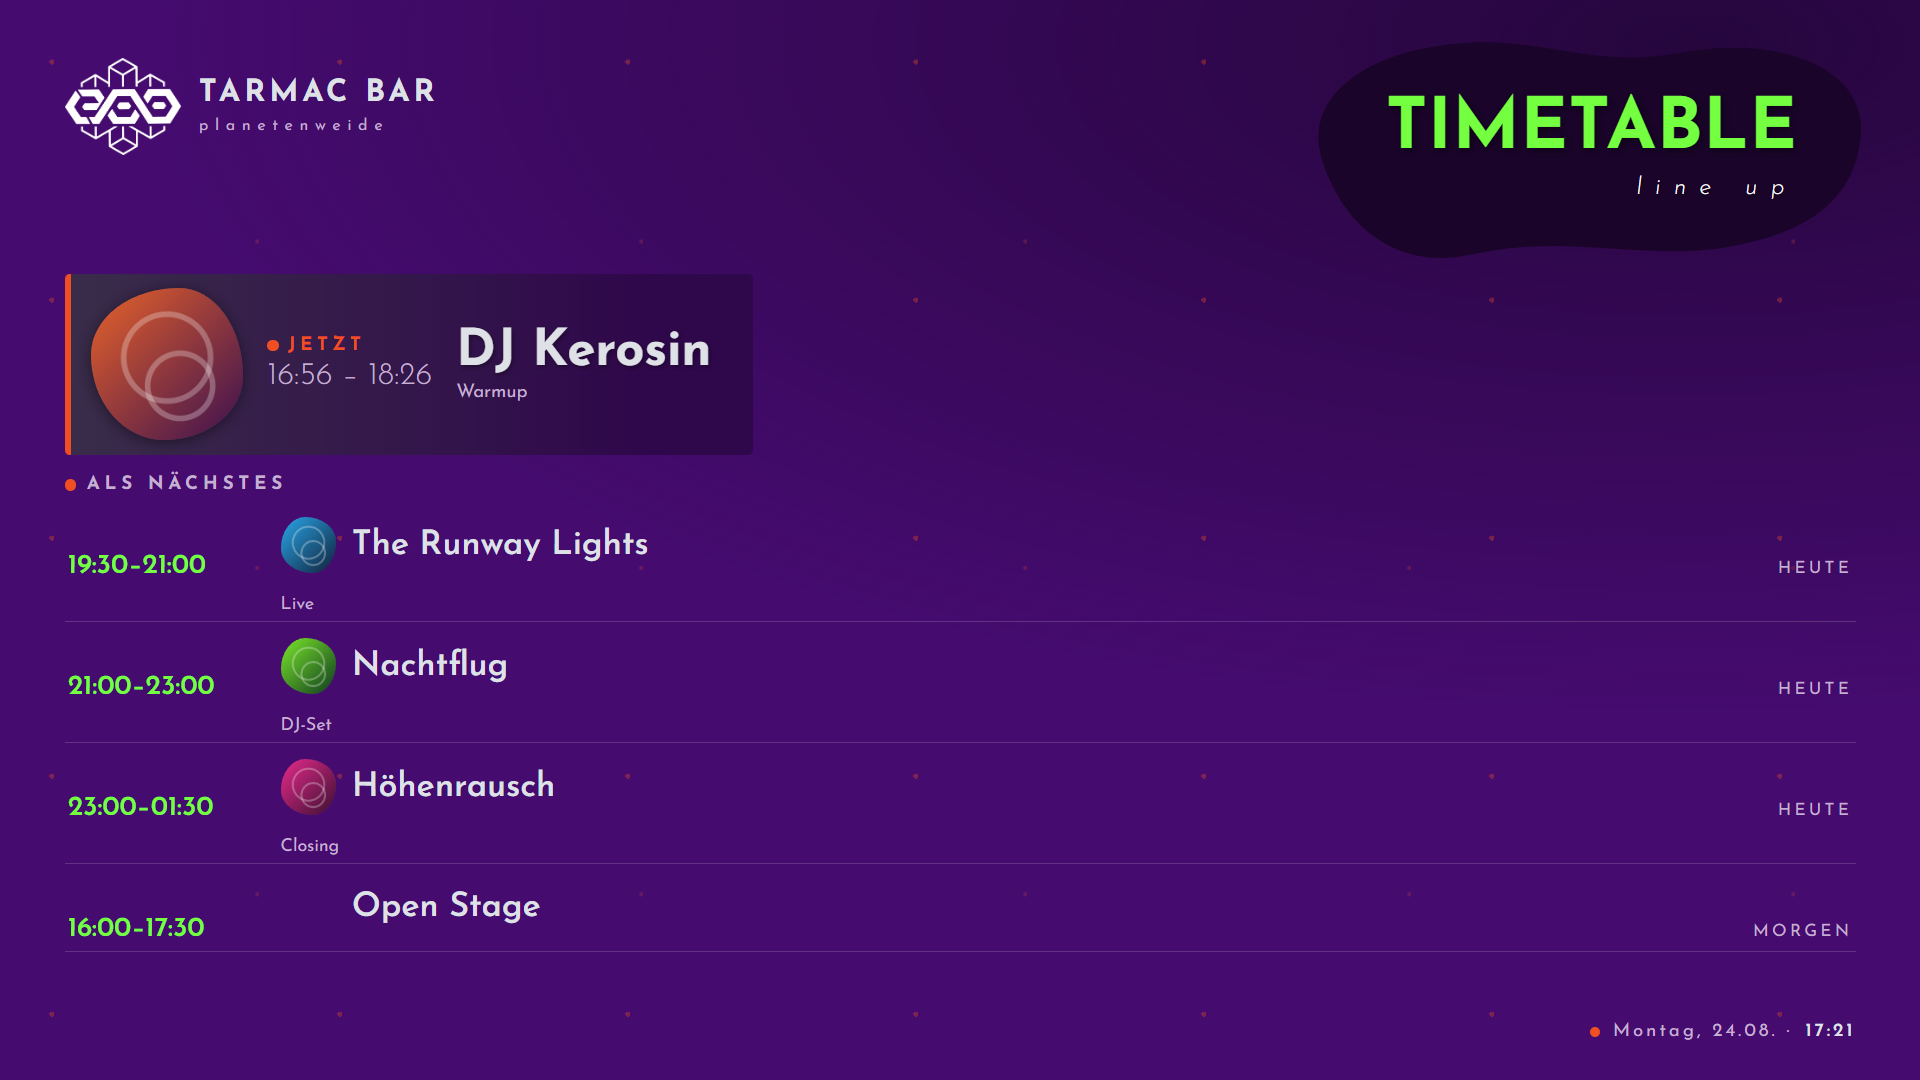
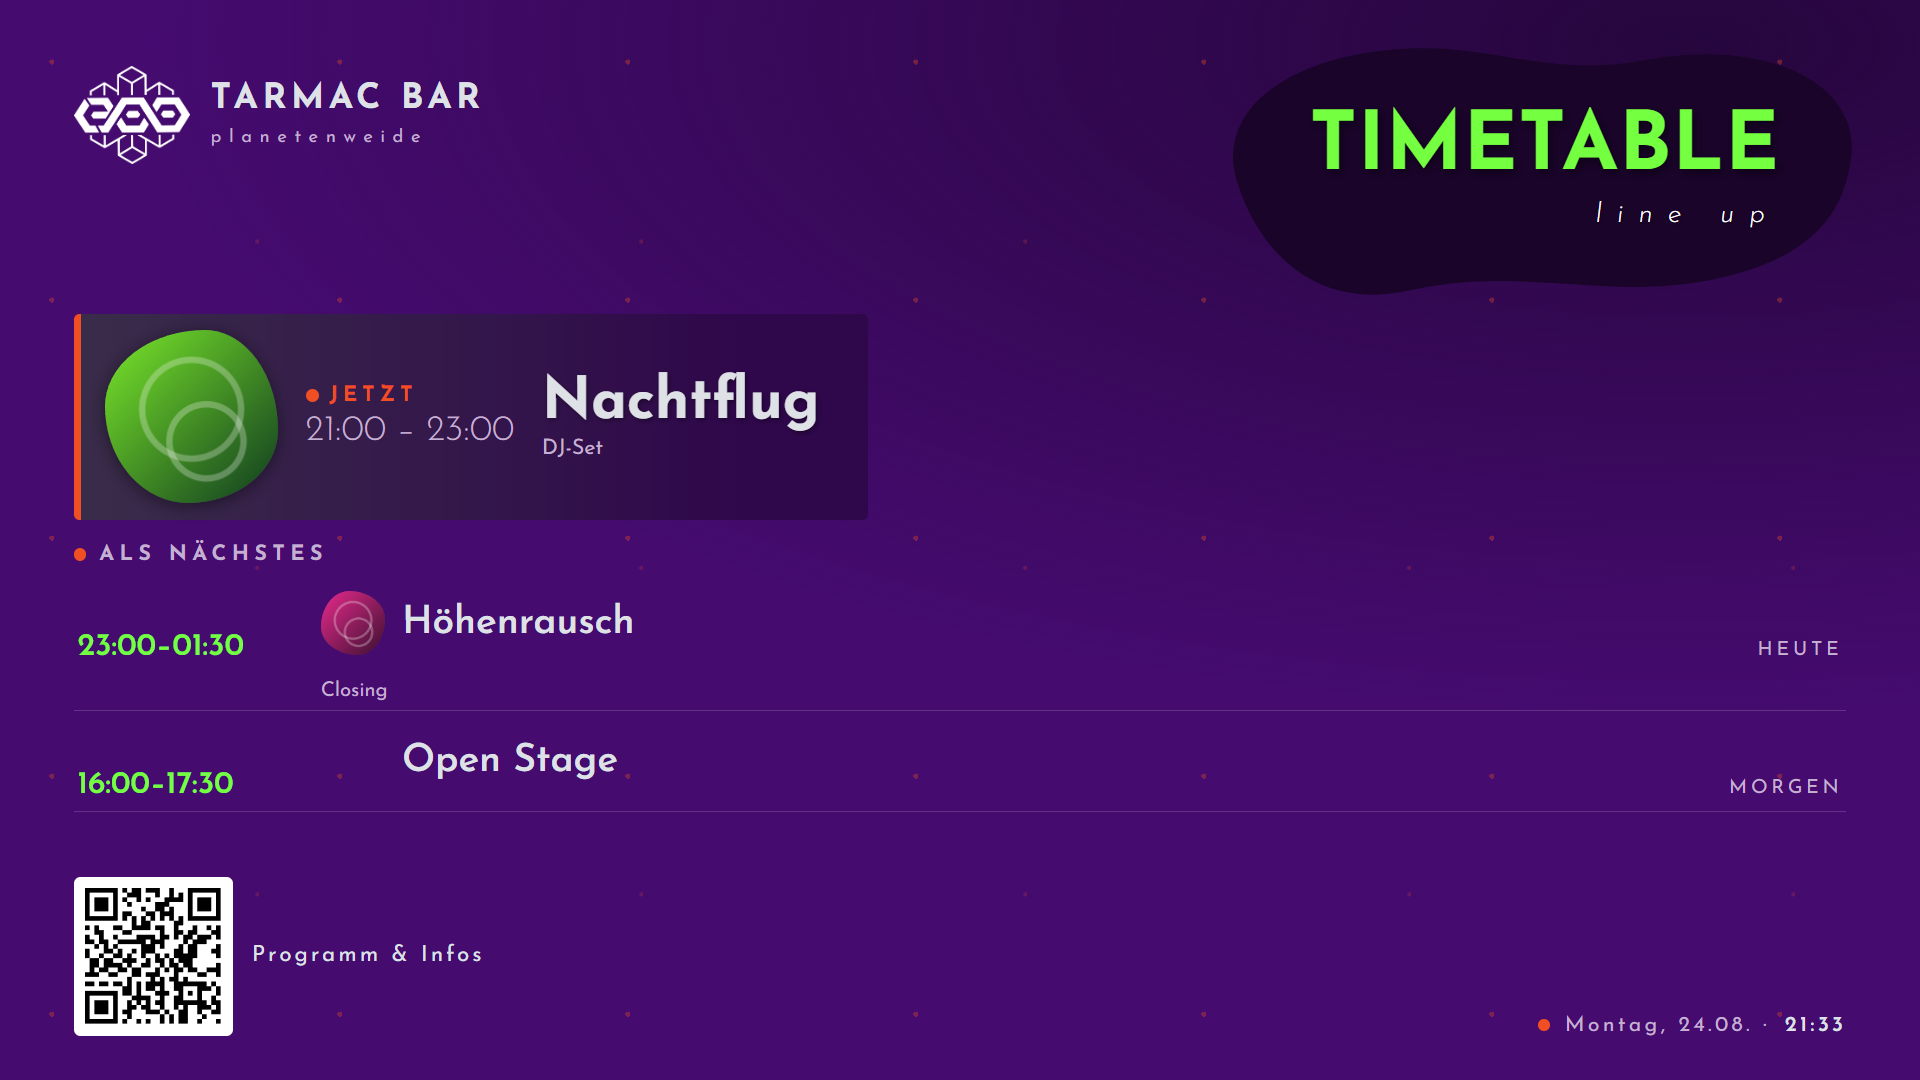
Doku auf den Stand von v1.1.0 gebracht
- Alle Screenshots neu aufgenommen; die Einstellungsbilder waren durch den
  neuen Reiter "Durchsage" veraltet
- Neu: Durchsage auf der Anzeige und im Einstellungsfenster, gedrehte Anzeige
- Kapitel zu Durchsage, QR-Code, Ruhezeit und Drehung ergaenzt
- Feste Versionsnummern durch Platzhalter ersetzt, Pruefsummen-Dateien richtig
  benannt
- Abschnitt "Reproduzierbare Releases"
- Abgeschnittenen Satz im Reiter "Anzeige" repariert, src/qr.js und
  qrcode-generator nachgetragen, Fehlertabelle um vier Zeilen erweitert

diff --git a/README.md b/README.md
@@ -57,17 +57,23 @@ Getränkepreise im Festival-Design.
 
 ## Einrichten an der Bar
 
-Es gibt das Programm für Windows und für Linux. Beide Fassungen sind funktionsgleich.
+Es gibt das Programm für Windows, Linux und macOS. Alle Fassungen sind funktionsgleich.
+Die aktuellen Dateien liegen unter
+[Releases](https://github.com/Tarmac-Festival/bar-display/releases/latest); `VERSION`
+steht unten für die Versionsnummer des Releases, also z. B. `1.1.0`.
 
 | System | Datei | Anmerkung |
 |---|---|---|
-| Windows | `Bar Display Setup 1.0.0.exe` | Installer mit Startmenü- und Desktop-Eintrag |
-| Windows | `BarDisplay-portable-1.0.0.exe` | ohne Installation, einfach in einen Ordner legen |
-| Linux | `BarDisplay-1.0.0-x86_64.AppImage` | ohne Installation, läuft auf jeder Distribution |
-| Linux | `bar-display_1.0.0_amd64.deb` | für Debian, Ubuntu, Mint und Verwandte |
-| Linux | `bar-display-1.0.0.tar.gz` | einfaches Archiv, falls die anderen beiden nicht passen |
-| macOS | `BarDisplay-1.0.0-arm64.dmg` | Apple Silicon (M1 und neuer) |
-| macOS | `BarDisplay-1.0.0-x64.dmg` | Intel-Macs |
+| Windows | `Bar Display Setup VERSION.exe` | Installer mit Startmenü- und Desktop-Eintrag |
+| Windows | `BarDisplay-portable-VERSION.exe` | ohne Installation, einfach in einen Ordner legen |
+| Linux | `BarDisplay-VERSION-x86_64.AppImage` | ohne Installation, läuft auf jeder Distribution |
+| Linux | `bar-display_VERSION_amd64.deb` | für Debian, Ubuntu, Mint und Verwandte |
+| Linux | `bar-display-VERSION.tar.gz` | einfaches Archiv, falls die anderen beiden nicht passen |
+| macOS | `BarDisplay-VERSION-arm64.dmg` | Apple Silicon (M1 und neuer) |
+| macOS | `BarDisplay-VERSION-x64.dmg` | Intel-Macs |
+| alle | `SHA256SUMS-windows.txt`, `-linux.txt`, `-mac.txt` | Prüfsummen, siehe [Reproduzierbare Releases](#reproduzierbare-releases) |
+
+Raspberry Pi braucht keinen Download, siehe [Raspberry Pi](#raspberry-pi).
 
 ### Windows
 
@@ -78,20 +84,20 @@ Installer ausführen oder die portable `.exe` in einen Ordner legen und starten.
 AppImage einmalig ausführbar machen und starten:
 
 ```bash
-chmod +x BarDisplay-1.0.0-x86_64.AppImage && ./BarDisplay-1.0.0-x86_64.AppImage
+chmod +x BarDisplay-*-x86_64.AppImage && ./BarDisplay-*-x86_64.AppImage
 ```
 
 Oder das Debian-Paket installieren:
 
 ```bash
-sudo apt install ./bar-display_1.0.0_amd64.deb
+sudo apt install ./bar-display_*_amd64.deb
 ```
 
 Beim `tar.gz` müssen Programm und ffmpeg von Hand ausführbar gemacht werden, weil das
 Archiv unter Windows gepackt wurde und dabei keine Dateirechte mitkommen:
 
 ```bash
-tar -xzf bar-display-1.0.0.tar.gz && chmod +x bar-display-1.0.0/bar-display bar-display-1.0.0/resources/ffmpeg/ffmpeg
+tar -xzf bar-display-*.tar.gz && chmod +x bar-display-*/bar-display bar-display-*/resources/ffmpeg/ffmpeg
 ```
 
 ### macOS
@@ -173,6 +179,37 @@ eigener Standzeit.
 
 ![Standbild in der Schleife](docs/screenshots/anzeige-standbild.png)
 
+### Durchsage
+
+Ein Balken am unteren Bildrand, über alles gelegt — auch über ein laufendes Video.
+Eingeschaltet wird er vom Handy oder vom Einstellungsfenster aus, er steht binnen
+einer Sekunde auf jedem Bildschirm, der an derselben Konfiguration hängt, und
+blendet sich auf Wunsch nach 5 bis 60 Minuten von allein wieder aus.
+
+![Durchsage über einem laufenden Clip](docs/screenshots/anzeige-durchsage.png)
+
+### QR-Code
+
+Ist unter *Anzeige → Beschriftung* eine Adresse hinterlegt, steht unten links auf
+dem Timetable ein QR-Code mit Beschriftung — z. B. auf die Festivalseite oder auf
+das ausführliche Line-up. Umlaute in der Adresse sind kein Problem.
+Ohne Adresse erscheint kein Code.
+
+### Ruhezeit
+
+Außerhalb der eingestellten Öffnungszeit bleibt der Bildschirm schwarz und die
+Schleife steht still — das schont Gerät und Strom. Bewegt jemand die Maus,
+erscheint kurz ein Hinweis, dass das Programm läuft und nur schläft; über die
+Einstellungen kommt man weiterhin ganz normal rein.
+
+### Gedrehte Anzeige
+
+Für senkrecht aufgehängte Fernseher lässt sich die ganze Anzeige um 90, 180 oder
+270 Grad drehen, samt Übergängen und PIN-Feld. Am Betriebssystem muss dafür nichts
+eingestellt werden — praktisch besonders am Raspberry Pi.
+
+![Timetable auf einem hochkant montierten Bildschirm](docs/screenshots/anzeige-drehung.png)
+
 ### Übergänge
 
 Vier Varianten, einstellbar unter *Anzeige → Stil & Übergänge*:
@@ -195,6 +232,8 @@ Ohne hinterlegtes Logo erscheint bei beiden Logo-Varianten der Bar-Name.
 ## Die Einstellungen
 
 ### Durchsage
+
+![Einstellungen Durchsage](docs/screenshots/einstellungen-durchsage.png)
 
 Der erste Reiter, und am Handy gleich geöffnet — dafür kommt man meistens her.
 Text eintippen, **Jetzt anzeigen** — der Balken steht binnen einer Sekunde auf
@@ -273,6 +312,7 @@ sonst passt.
 - **Stil & Übergänge**: Fläche hinter dem Seitentitel (Blob, Balken oder ohne),
   Hintergrundmuster (keins, dezente Punkte, Konfetti) und der Übergang.
 - **Farben & Schrift**: Hintergrund-, Akzent- und Signalfarbe, zwei Voreinstellungen,
+  optional eine eigene Schriftdatei.
 - **Anzeige drehen**: 90, 180 oder 270 Grad. Gedacht für senkrecht montierte
   Bildschirme — der Fernseher wird gedreht aufgehängt, die Anzeige dreht mit.
   Wirkt sofort und gilt auf jedem System gleich, auch auf dem Raspberry Pi,
@@ -283,7 +323,6 @@ sonst passt.
   statt den Bildschirm dauerhaft schwarz zu lassen.
 - **QR-Code**: Adresse eintragen, dann erscheint unten links auf dem Timetable
   ein Code mit Beschriftung. Leer lassen = kein Code.
-  optional eine eigene Schriftdatei.
 
 ### System
 
@@ -443,6 +482,10 @@ Der Autostart wird unter Windows im Anmelde-Autostart eingetragen, unter Linux a
 | Preise/Timetable erscheinen nie | Im Reiter *Anzeige* steht die Häufigkeit auf `0` |
 | Ein Clip läuft nie | Fähnchen im Reiter *Videos* prüfen: deaktiviert oder kein Zeitfenster gesetzt |
 | Nach einem System-Update startet nichts mehr | Autostart unter *System* neu setzen |
+| Bildschirm schwarz, Maus zeigt einen Hinweis | Ruhezeit ist aktiv – *Anzeige → Ruhezeit* |
+| Durchsage hängt fest | *Durchsage → Ausblenden*, oder eine Ausblendzeit setzen |
+| Anzeige steht auf dem Kopf oder quer | *Anzeige → Anzeige drehen* auf „Nicht drehen" |
+| QR-Code fehlt auf dem Timetable | *Anzeige → Beschriftung*, Adresse eintragen |
 | macOS: „unbekannter Entwickler" oder „beschädigt" | Rechtsklick → Öffnen, siehe Abschnitt macOS. Das Programm ist unsigniert, nicht kaputt |
 | Linux: Programm startet nicht | Ausführbar-Bit fehlt – `chmod +x` auf die AppImage bzw. auf `bar-display` und `resources/ffmpeg/ffmpeg` |
 | Linux: Umwandlung nicht verfügbar | Sollte nicht vorkommen, ffmpeg liegt bei. Notfalls `sudo apt install ffmpeg` – das Programm nimmt auch ein systemweit installiertes |
@@ -483,8 +526,9 @@ npm run dist:linux
 npm run dist:mac
 ```
 
-Beim ersten Bauen holt das Projekt die ffmpeg-Binärdateien für beide Plattformen nach
-`vendor/` (zusammen rund 155 MB, absichtlich nicht im Repository). Einzeln anstoßen:
+Beim ersten Bauen holt das Projekt die ffmpeg-Binärdateien für alle Plattformen nach
+`vendor/` (absichtlich nicht im Repository). Jeder Download wird gegen eine hinterlegte
+SHA-256-Prüfsumme geprüft. Einzeln anstoßen:
 
 ```bash
 npm run vendor:ffmpeg
@@ -500,8 +544,31 @@ Ausführungsrechte fehlen. Der bequeme Weg ist der Ablauf in
 Pakete für Windows und Linux und hängt sie an das Release.
 
 ```bash
-git tag v1.0.0 && git push origin v1.0.0
+git tag v1.1.0 && git push origin v1.1.0
 ```
+
+### Reproduzierbare Releases
+
+Damit ein Release später aus demselben Stand nochmal gebaut werden kann:
+
+- **Abhängigkeiten sind festgenagelt.** `package-lock.json` liegt im Repository, der
+  Ablauf auf GitHub benutzt `npm ci` — nie `npm install`.
+- **ffmpeg ist auf Prüfsumme festgelegt.** `scripts/fetch-ffmpeg.js` kennt für jede
+  Plattform die erwartete SHA-256 und Dateigröße und bricht ab, wenn etwas nicht passt.
+  Ein stillschweigend ausgetauschter Download fällt damit auf.
+- **Tag und Version müssen zusammenpassen.** Der Ablauf vergleicht den Git-Tag mit der
+  Version in `package.json` und bricht bei Abweichung ab, bevor irgendetwas gebaut wird.
+- **Prüfsummen liegen dem Release bei.** Zu jeder Plattform gibt es eine
+  `SHA256SUMS-*.txt`. Damit lässt sich eine heruntergeladene Datei gegenprüfen:
+
+```bash
+sha256sum -c SHA256SUMS-linux.txt
+```
+
+Ein Release entsteht ausschließlich über den Ablauf auf GitHub, nie von Hand:
+Version in `package.json` setzen, committen, Tag anlegen und schieben.
+Schlägt ein Lauf fehl, steht der Auszug aus dem Protokoll direkt in der
+Zusammenfassung des Laufs.
 
 ### Aufbau
 
@@ -518,12 +585,14 @@ git tag v1.0.0 && git push origin v1.0.0
 | `pi/server.js` | Webdienst für den Raspberry Pi |
 | `pi/install.sh` | Einrichtung auf dem Pi |
 | `src/api-http.js` | Ersatz für die Electron-Brücke im Browserbetrieb |
-| `scripts/fetch-ffmpeg.js` | holt ffmpeg für Windows und Linux nach `vendor/` |
+| `src/qr.js` | QR-Erzeugung, mitgeliefert statt nachgeladen |
+| `scripts/fetch-ffmpeg.js` | holt ffmpeg für Windows, Linux und macOS nach `vendor/`, mit Prüfsumme |
 | `build/` | Programmsymbole, aus dem L300-Logo erzeugt |
 | `.github/workflows/release.yml` | baut auf GitHub alle Pakete und hängt sie an ein Release |
 
 ### Mitgelieferte Fremdbestandteile
 
 - **Josefin Sans** – SIL Open Font License 1.1, Lizenztext in `src/fonts/OFL.txt`
-- **ffmpeg** – über `ffmpeg-static`, wird nur zum Umwandeln aufgerufen
+- **ffmpeg** – wird beim Bauen nach `vendor/` geholt, siehe `scripts/fetch-ffmpeg.js`
+- **qrcode-generator** – MIT, als `src/qr.js` mitgeliefert
 - **Electron** – Laufzeitumgebung
